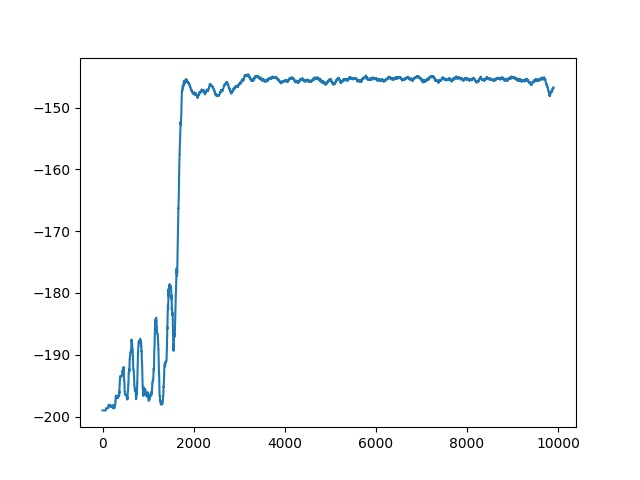
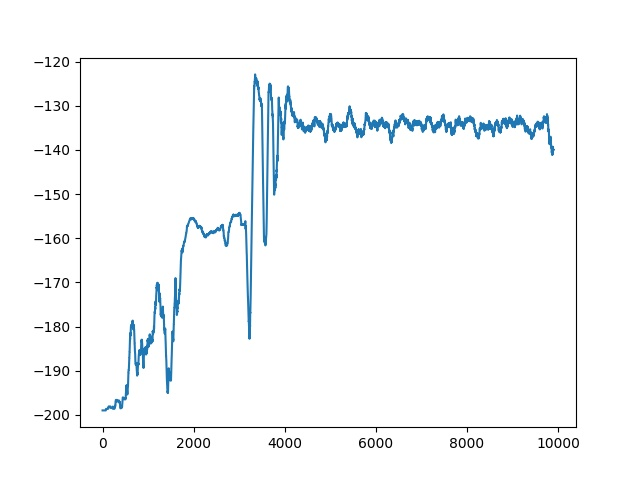
update

diff --git a/lab3/mountain_car.py b/lab3/mountain_car.py
@@ -31,8 +31,8 @@ class sarsaAgent():
         self.env = gym.make('MountainCar-v0')
         self.states_T1 = (18*28)
         self.actions = 3
-        self.epsilon_T1 = 1e-6
-        self.epsilon_T2 = 1e-6
+        self.epsilon_T1 = 1e-5
+        self.epsilon_T2 = 1e-5
         self.learning_rate_T1 = 0.6
         self.learning_rate_T2 = 0.6
         self.weights_T1 = np.zeros((self.actions, self.states_T1))
